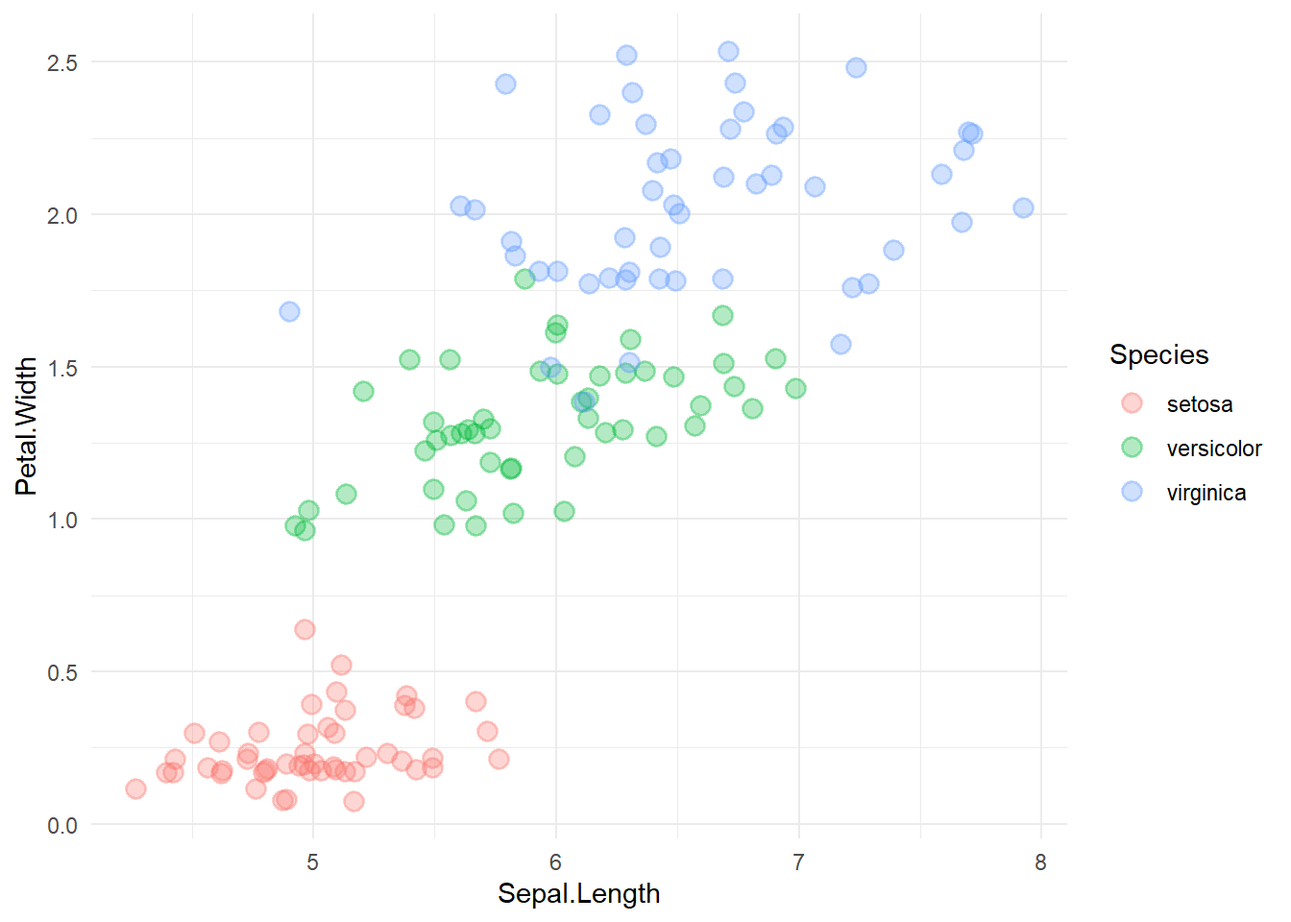
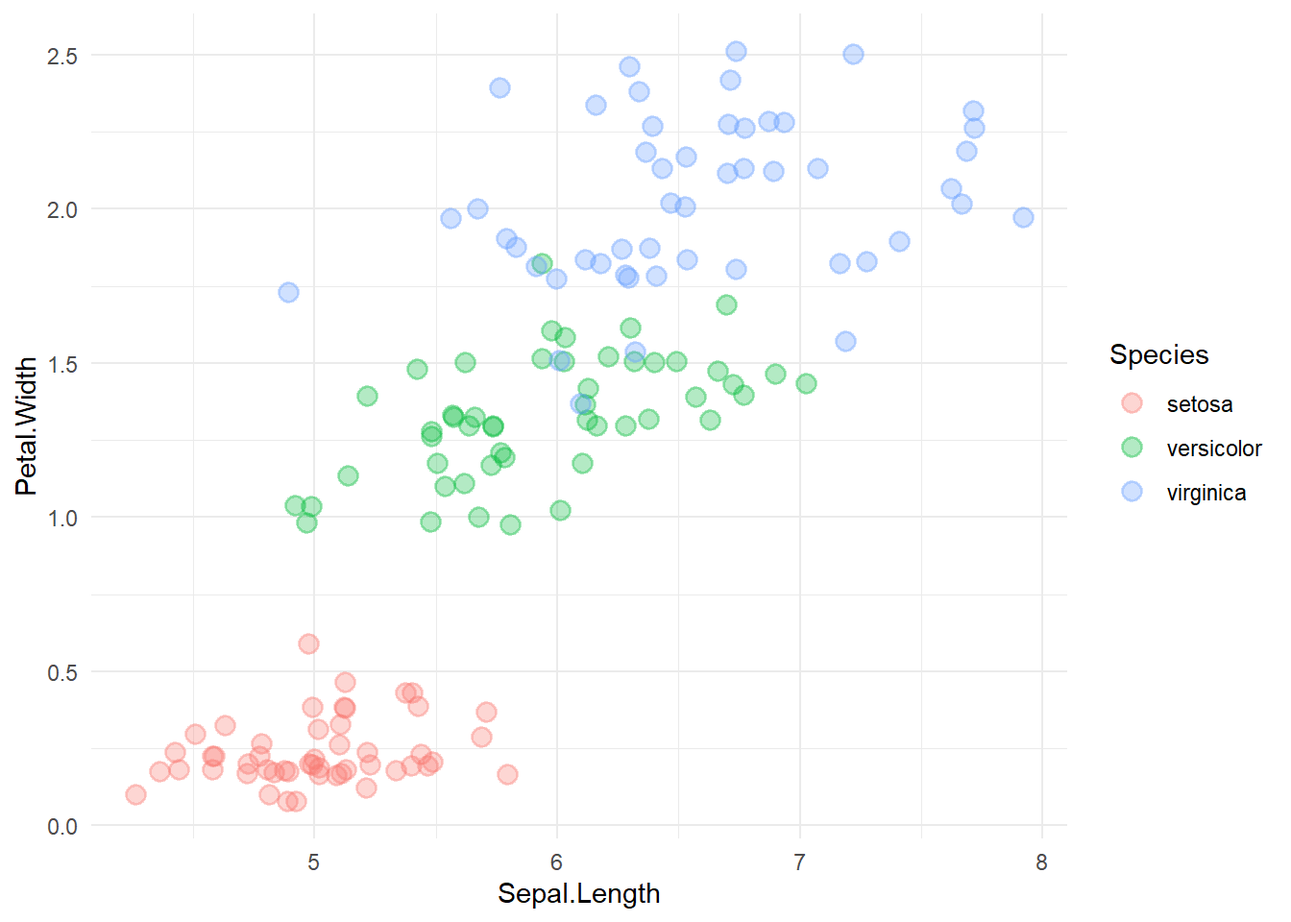
graf xy excel pinguinos R

diff --git a/docs/posts/excel-xy-pinguinos/index.html b/docs/posts/excel-xy-pinguinos/index.html
@@ -311,85 +311,78 @@ code span.wa { color: #60a0b0; font-weight: bold; font-style: italic; } /* Warni
 <h2 class="anchored" data-anchor-id="cómo-hacerlo-en-r">Cómo hacerlo en R</h2>
 <p>Adjunto el código R para hacer un gráfico equivalente al anterior en R. El posicionamiento de las imágenes es más engorroso; hay que detallar las coordenadas de cada imagen. El resultado definitivo sólo se consigue por ensayo y error. al no ser posible la edición visual de la que dispone Excel.</p>
 <div class="cell">
-<div class="sourceCode cell-code" id="cb1"><pre class="sourceCode r code-with-copy"><code class="sourceCode r"><span id="cb1-1"><a href="#cb1-1" aria-hidden="true" tabindex="-1"></a><span class="do">## packages</span></span>
+<div class="sourceCode cell-code" id="cb1"><pre class="sourceCode r code-with-copy"><code class="sourceCode r"><span id="cb1-1"><a href="#cb1-1" aria-hidden="true" tabindex="-1"></a><span class="do">## librerias</span></span>
 <span id="cb1-2"><a href="#cb1-2" aria-hidden="true" tabindex="-1"></a><span class="fu">library</span>(tidyverse)</span>
-<span id="cb1-3"><a href="#cb1-3" aria-hidden="true" tabindex="-1"></a><span class="fu">library</span>(colorspace)</span>
-<span id="cb1-4"><a href="#cb1-4" aria-hidden="true" tabindex="-1"></a><span class="fu">library</span>(ragg)</span>
-<span id="cb1-5"><a href="#cb1-5" aria-hidden="true" tabindex="-1"></a><span class="fu">library</span>(cowplot)</span>
-<span id="cb1-6"><a href="#cb1-6" aria-hidden="true" tabindex="-1"></a><span class="fu">library</span>(ggtext)</span>
-<span id="cb1-7"><a href="#cb1-7" aria-hidden="true" tabindex="-1"></a><span class="fu">library</span>(pdftools)</span>
-<span id="cb1-8"><a href="#cb1-8" aria-hidden="true" tabindex="-1"></a><span class="fu">library</span>(scales)</span>
-<span id="cb1-9"><a href="#cb1-9" aria-hidden="true" tabindex="-1"></a><span class="fu">library</span>(showtext)</span>
-<span id="cb1-10"><a href="#cb1-10" aria-hidden="true" tabindex="-1"></a></span>
-<span id="cb1-11"><a href="#cb1-11" aria-hidden="true" tabindex="-1"></a><span class="fu">theme_set</span>(<span class="fu">theme_minimal</span>(<span class="at">base_size =</span> <span class="dv">15</span>))</span>
-<span id="cb1-12"><a href="#cb1-12" aria-hidden="true" tabindex="-1"></a></span>
-<span id="cb1-13"><a href="#cb1-13" aria-hidden="true" tabindex="-1"></a><span class="do">## lee los datos</span></span>
-<span id="cb1-14"><a href="#cb1-14" aria-hidden="true" tabindex="-1"></a>df_penguins <span class="ot">&lt;-</span> readr<span class="sc">::</span><span class="fu">read_csv</span>(<span class="st">'penguins.csv'</span>) <span class="sc">|&gt;</span></span>
-<span id="cb1-15"><a href="#cb1-15" aria-hidden="true" tabindex="-1"></a>  <span class="fu">mutate</span>(<span class="at">species =</span> <span class="fu">if_else</span>(species <span class="sc">==</span> <span class="st">"Adelie"</span>, <span class="st">"Adélie"</span>, species))</span>
+<span id="cb1-3"><a href="#cb1-3" aria-hidden="true" tabindex="-1"></a></span>
+<span id="cb1-4"><a href="#cb1-4" aria-hidden="true" tabindex="-1"></a><span class="fu">theme_set</span>(<span class="fu">theme_minimal</span>(<span class="at">base_size =</span> <span class="dv">15</span>))</span>
+<span id="cb1-5"><a href="#cb1-5" aria-hidden="true" tabindex="-1"></a></span>
+<span id="cb1-6"><a href="#cb1-6" aria-hidden="true" tabindex="-1"></a><span class="do">## lee los datos</span></span>
+<span id="cb1-7"><a href="#cb1-7" aria-hidden="true" tabindex="-1"></a>df_penguins <span class="ot">&lt;-</span> readr<span class="sc">::</span><span class="fu">read_csv</span>(<span class="st">'penguins.csv'</span>) <span class="sc">|&gt;</span></span>
+<span id="cb1-8"><a href="#cb1-8" aria-hidden="true" tabindex="-1"></a>  <span class="fu">mutate</span>(<span class="at">species =</span> <span class="fu">if_else</span>(species <span class="sc">==</span> <span class="st">"Adelie"</span>, <span class="st">"Adélie"</span>, species))</span>
+<span id="cb1-9"><a href="#cb1-9" aria-hidden="true" tabindex="-1"></a></span>
+<span id="cb1-10"><a href="#cb1-10" aria-hidden="true" tabindex="-1"></a><span class="do">## lee las imágenes</span></span>
+<span id="cb1-11"><a href="#cb1-11" aria-hidden="true" tabindex="-1"></a>img <span class="ot">&lt;-</span> png<span class="sc">::</span><span class="fu">readPNG</span>(<span class="st">"culmen_depth-transparente.png"</span>)</span>
+<span id="cb1-12"><a href="#cb1-12" aria-hidden="true" tabindex="-1"></a>i1 <span class="ot">&lt;-</span> grid<span class="sc">::</span><span class="fu">rasterGrob</span>(img, <span class="at">interpolate =</span> T)</span>
+<span id="cb1-13"><a href="#cb1-13" aria-hidden="true" tabindex="-1"></a></span>
+<span id="cb1-14"><a href="#cb1-14" aria-hidden="true" tabindex="-1"></a>img <span class="ot">&lt;-</span> png<span class="sc">::</span><span class="fu">readPNG</span>(<span class="st">"lter_penguins.png"</span>)</span>
+<span id="cb1-15"><a href="#cb1-15" aria-hidden="true" tabindex="-1"></a>i2 <span class="ot">&lt;-</span> grid<span class="sc">::</span><span class="fu">rasterGrob</span>(img, <span class="at">interpolate =</span> T)</span>
 <span id="cb1-16"><a href="#cb1-16" aria-hidden="true" tabindex="-1"></a></span>
-<span id="cb1-17"><a href="#cb1-17" aria-hidden="true" tabindex="-1"></a><span class="do">## lee las imágenes</span></span>
-<span id="cb1-18"><a href="#cb1-18" aria-hidden="true" tabindex="-1"></a>img <span class="ot">&lt;-</span> png<span class="sc">::</span><span class="fu">readPNG</span>(<span class="st">"culmen_depth-transparente.png"</span>)</span>
-<span id="cb1-19"><a href="#cb1-19" aria-hidden="true" tabindex="-1"></a>i1 <span class="ot">&lt;-</span> grid<span class="sc">::</span><span class="fu">rasterGrob</span>(img, <span class="at">interpolate =</span> T)</span>
-<span id="cb1-20"><a href="#cb1-20" aria-hidden="true" tabindex="-1"></a></span>
-<span id="cb1-21"><a href="#cb1-21" aria-hidden="true" tabindex="-1"></a>img <span class="ot">&lt;-</span> png<span class="sc">::</span><span class="fu">readPNG</span>(<span class="st">"lter_penguins.png"</span>)</span>
-<span id="cb1-22"><a href="#cb1-22" aria-hidden="true" tabindex="-1"></a>i2 <span class="ot">&lt;-</span> grid<span class="sc">::</span><span class="fu">rasterGrob</span>(img, <span class="at">interpolate =</span> T)</span>
-<span id="cb1-23"><a href="#cb1-23" aria-hidden="true" tabindex="-1"></a></span>
-<span id="cb1-24"><a href="#cb1-24" aria-hidden="true" tabindex="-1"></a>img <span class="ot">&lt;-</span> png<span class="sc">::</span><span class="fu">readPNG</span>(<span class="st">"palmerpenguins.png"</span>)</span>
-<span id="cb1-25"><a href="#cb1-25" aria-hidden="true" tabindex="-1"></a>i3 <span class="ot">&lt;-</span> grid<span class="sc">::</span><span class="fu">rasterGrob</span>(img, <span class="at">interpolate =</span> T)</span>
-<span id="cb1-26"><a href="#cb1-26" aria-hidden="true" tabindex="-1"></a></span>
-<span id="cb1-27"><a href="#cb1-27" aria-hidden="true" tabindex="-1"></a><span class="do">## prepara el gráfico</span></span>
-<span id="cb1-28"><a href="#cb1-28" aria-hidden="true" tabindex="-1"></a>paleta_color <span class="ot">&lt;-</span> <span class="fu">c</span>(<span class="st">"darkorange"</span>, <span class="st">"blueviolet"</span>,  <span class="st">"aquamarine4"</span>)</span>
-<span id="cb1-29"><a href="#cb1-29" aria-hidden="true" tabindex="-1"></a></span>
-<span id="cb1-30"><a href="#cb1-30" aria-hidden="true" tabindex="-1"></a>scat <span class="ot">&lt;-</span></span>
-<span id="cb1-31"><a href="#cb1-31" aria-hidden="true" tabindex="-1"></a>  <span class="fu">ggplot</span>(df_penguins, <span class="fu">aes</span>(flipper_length_mm, bill_length_mm, <span class="at">colour =</span> species)) <span class="sc">+</span></span>
-<span id="cb1-32"><a href="#cb1-32" aria-hidden="true" tabindex="-1"></a>    <span class="fu">geom_point</span>(<span class="at">size =</span> <span class="dv">3</span>, <span class="at">alpha =</span> <span class="fl">0.3</span>, <span class="at">stroke =</span> <span class="dv">1</span>) <span class="sc">+</span></span>
-<span id="cb1-33"><a href="#cb1-33" aria-hidden="true" tabindex="-1"></a>    <span class="fu">theme_minimal</span>() <span class="sc">+</span></span>
-<span id="cb1-34"><a href="#cb1-34" aria-hidden="true" tabindex="-1"></a>    <span class="fu">labs</span> (<span class="at">title =</span> <span class="st">"Flipper and bill length"</span>,</span>
-<span id="cb1-35"><a href="#cb1-35" aria-hidden="true" tabindex="-1"></a>          <span class="at">subtitle=</span><span class="st">"Dimensions for Adélie, Chinstrap and Gentoo penguins at Palmer Station LTER"</span>,</span>
-<span id="cb1-36"><a href="#cb1-36" aria-hidden="true" tabindex="-1"></a>          <span class="at">caption =</span> <span class="st">"Dataset and images by Allison Horst https://allisonhorst.github.io/palmerpenguins/"</span>) <span class="sc">+</span></span>
-<span id="cb1-37"><a href="#cb1-37" aria-hidden="true" tabindex="-1"></a>    <span class="fu">theme</span>(</span>
-<span id="cb1-38"><a href="#cb1-38" aria-hidden="true" tabindex="-1"></a>      <span class="at">plot.title =</span> <span class="fu">element_text</span>(<span class="at">size=</span><span class="dv">22</span>),</span>
-<span id="cb1-39"><a href="#cb1-39" aria-hidden="true" tabindex="-1"></a>      <span class="at">legend.position =</span> <span class="st">"none"</span>,</span>
-<span id="cb1-40"><a href="#cb1-40" aria-hidden="true" tabindex="-1"></a>      <span class="at">plot.margin =</span> <span class="fu">margin</span>(<span class="dv">1</span>,<span class="dv">6</span>,<span class="fl">1.5</span>,<span class="fl">1.5</span>, <span class="st">"cm"</span>),</span>
-<span id="cb1-41"><a href="#cb1-41" aria-hidden="true" tabindex="-1"></a>      <span class="at">plot.caption =</span> <span class="fu">element_text</span>(<span class="at">hjust=</span><span class="dv">0</span>, <span class="at">face=</span><span class="st">"italic"</span>)</span>
-<span id="cb1-42"><a href="#cb1-42" aria-hidden="true" tabindex="-1"></a>    ) <span class="sc">+</span></span>
-<span id="cb1-43"><a href="#cb1-43" aria-hidden="true" tabindex="-1"></a>  <span class="fu">scale_fill_manual</span>(<span class="at">values=</span>paleta_color) <span class="sc">+</span></span>
-<span id="cb1-44"><a href="#cb1-44" aria-hidden="true" tabindex="-1"></a>  <span class="fu">scale_color_manual</span>(<span class="at">values=</span>paleta_color) <span class="sc">+</span></span>
-<span id="cb1-45"><a href="#cb1-45" aria-hidden="true" tabindex="-1"></a>  <span class="fu">annotate</span>(</span>
-<span id="cb1-46"><a href="#cb1-46" aria-hidden="true" tabindex="-1"></a>    <span class="st">"text"</span>,</span>
-<span id="cb1-47"><a href="#cb1-47" aria-hidden="true" tabindex="-1"></a>    <span class="at">x =</span> <span class="dv">185</span>, <span class="at">y =</span> <span class="dv">54</span>,</span>
-<span id="cb1-48"><a href="#cb1-48" aria-hidden="true" tabindex="-1"></a>    <span class="at">label =</span> <span class="st">"Chinstrap"</span>,</span>
-<span id="cb1-49"><a href="#cb1-49" aria-hidden="true" tabindex="-1"></a>    <span class="at">color =</span> <span class="st">"blueviolet"</span>,</span>
-<span id="cb1-50"><a href="#cb1-50" aria-hidden="true" tabindex="-1"></a>    <span class="at">alpha =</span> <span class="fl">0.8</span>,</span>
-<span id="cb1-51"><a href="#cb1-51" aria-hidden="true" tabindex="-1"></a>    <span class="at">size =</span> <span class="dv">4</span>,</span>
-<span id="cb1-52"><a href="#cb1-52" aria-hidden="true" tabindex="-1"></a>    <span class="at">lineheight =</span> .<span class="dv">9</span></span>
-<span id="cb1-53"><a href="#cb1-53" aria-hidden="true" tabindex="-1"></a>  ) <span class="sc">+</span></span>
-<span id="cb1-54"><a href="#cb1-54" aria-hidden="true" tabindex="-1"></a>  <span class="fu">annotate</span>(</span>
-<span id="cb1-55"><a href="#cb1-55" aria-hidden="true" tabindex="-1"></a>    <span class="st">"text"</span>,</span>
-<span id="cb1-56"><a href="#cb1-56" aria-hidden="true" tabindex="-1"></a>    <span class="at">x =</span> <span class="dv">205</span>, <span class="at">y =</span> <span class="dv">34</span>,</span>
-<span id="cb1-57"><a href="#cb1-57" aria-hidden="true" tabindex="-1"></a>    <span class="at">label =</span> <span class="st">"Adélie"</span>,</span>
-<span id="cb1-58"><a href="#cb1-58" aria-hidden="true" tabindex="-1"></a>    <span class="at">color =</span> <span class="st">"darkorange"</span>,</span>
-<span id="cb1-59"><a href="#cb1-59" aria-hidden="true" tabindex="-1"></a>    <span class="at">alpha =</span> <span class="fl">0.8</span>,</span>
-<span id="cb1-60"><a href="#cb1-60" aria-hidden="true" tabindex="-1"></a>    <span class="at">size =</span> <span class="dv">4</span>,</span>
-<span id="cb1-61"><a href="#cb1-61" aria-hidden="true" tabindex="-1"></a>    <span class="at">lineheight =</span> .<span class="dv">9</span></span>
-<span id="cb1-62"><a href="#cb1-62" aria-hidden="true" tabindex="-1"></a>  ) <span class="sc">+</span></span>
-<span id="cb1-63"><a href="#cb1-63" aria-hidden="true" tabindex="-1"></a>  <span class="fu">annotate</span>(</span>
-<span id="cb1-64"><a href="#cb1-64" aria-hidden="true" tabindex="-1"></a>    <span class="st">"text"</span>,</span>
-<span id="cb1-65"><a href="#cb1-65" aria-hidden="true" tabindex="-1"></a>    <span class="at">x =</span> <span class="dv">223</span>, <span class="at">y =</span> <span class="dv">42</span>,</span>
-<span id="cb1-66"><a href="#cb1-66" aria-hidden="true" tabindex="-1"></a>    <span class="at">label =</span> <span class="st">"Gentoo"</span>,</span>
-<span id="cb1-67"><a href="#cb1-67" aria-hidden="true" tabindex="-1"></a>    <span class="at">color =</span> <span class="st">"aquamarine4"</span>,</span>
-<span id="cb1-68"><a href="#cb1-68" aria-hidden="true" tabindex="-1"></a>    <span class="at">alpha =</span> <span class="fl">0.8</span>,</span>
-<span id="cb1-69"><a href="#cb1-69" aria-hidden="true" tabindex="-1"></a>    <span class="at">size =</span> <span class="dv">4</span>,</span>
-<span id="cb1-70"><a href="#cb1-70" aria-hidden="true" tabindex="-1"></a>    <span class="at">lineheight =</span> .<span class="dv">9</span></span>
-<span id="cb1-71"><a href="#cb1-71" aria-hidden="true" tabindex="-1"></a>  ) <span class="sc">+</span></span>
-<span id="cb1-72"><a href="#cb1-72" aria-hidden="true" tabindex="-1"></a>  <span class="fu">annotation_custom</span>(i1, <span class="at">ymin =</span> <span class="dv">45</span>, <span class="at">ymax =</span> <span class="dv">65</span>, <span class="at">xmin =</span> <span class="dv">235</span>, <span class="at">xmax =</span><span class="dv">275</span>) <span class="sc">+</span></span>
-<span id="cb1-73"><a href="#cb1-73" aria-hidden="true" tabindex="-1"></a>  <span class="fu">annotation_custom</span>(i2, <span class="at">ymin =</span> <span class="dv">20</span>, <span class="at">ymax =</span> <span class="dv">55</span>, <span class="at">xmin =</span> <span class="dv">225</span>, <span class="at">xmax =</span><span class="dv">275</span>) <span class="sc">+</span></span>
-<span id="cb1-74"><a href="#cb1-74" aria-hidden="true" tabindex="-1"></a>  <span class="fu">annotation_custom</span>(i3, <span class="at">ymin =</span> <span class="fl">63.5</span>, <span class="at">ymax =</span> <span class="dv">70</span>, <span class="at">xmin =</span> <span class="dv">255</span>, <span class="at">xmax =</span><span class="dv">275</span>) <span class="sc">+</span></span>
-<span id="cb1-75"><a href="#cb1-75" aria-hidden="true" tabindex="-1"></a>  <span class="fu">coord_cartesian</span>(<span class="at">clip =</span> <span class="st">"off"</span>)</span>
-<span id="cb1-76"><a href="#cb1-76" aria-hidden="true" tabindex="-1"></a></span>
-<span id="cb1-77"><a href="#cb1-77" aria-hidden="true" tabindex="-1"></a><span class="fu">plot</span>(scat)</span></code><button title="Copy to Clipboard" class="code-copy-button"><i class="bi"></i></button></pre></div>
+<span id="cb1-17"><a href="#cb1-17" aria-hidden="true" tabindex="-1"></a>img <span class="ot">&lt;-</span> png<span class="sc">::</span><span class="fu">readPNG</span>(<span class="st">"palmerpenguins.png"</span>)</span>
+<span id="cb1-18"><a href="#cb1-18" aria-hidden="true" tabindex="-1"></a>i3 <span class="ot">&lt;-</span> grid<span class="sc">::</span><span class="fu">rasterGrob</span>(img, <span class="at">interpolate =</span> T)</span>
+<span id="cb1-19"><a href="#cb1-19" aria-hidden="true" tabindex="-1"></a></span>
+<span id="cb1-20"><a href="#cb1-20" aria-hidden="true" tabindex="-1"></a><span class="do">## prepara el gráfico</span></span>
+<span id="cb1-21"><a href="#cb1-21" aria-hidden="true" tabindex="-1"></a>paleta_color <span class="ot">&lt;-</span> <span class="fu">c</span>(<span class="st">"darkorange"</span>, <span class="st">"blueviolet"</span>,  <span class="st">"aquamarine4"</span>)</span>
+<span id="cb1-22"><a href="#cb1-22" aria-hidden="true" tabindex="-1"></a></span>
+<span id="cb1-23"><a href="#cb1-23" aria-hidden="true" tabindex="-1"></a>scat <span class="ot">&lt;-</span></span>
+<span id="cb1-24"><a href="#cb1-24" aria-hidden="true" tabindex="-1"></a>  <span class="fu">ggplot</span>(df_penguins, <span class="fu">aes</span>(flipper_length_mm, bill_length_mm, <span class="at">colour =</span> species)) <span class="sc">+</span></span>
+<span id="cb1-25"><a href="#cb1-25" aria-hidden="true" tabindex="-1"></a>    <span class="fu">geom_point</span>(<span class="at">size =</span> <span class="dv">3</span>, <span class="at">alpha =</span> <span class="fl">0.3</span>, <span class="at">stroke =</span> <span class="dv">1</span>) <span class="sc">+</span></span>
+<span id="cb1-26"><a href="#cb1-26" aria-hidden="true" tabindex="-1"></a>    <span class="fu">theme_minimal</span>() <span class="sc">+</span></span>
+<span id="cb1-27"><a href="#cb1-27" aria-hidden="true" tabindex="-1"></a>    <span class="fu">labs</span> (<span class="at">title =</span> <span class="st">"Flipper and bill length"</span>,</span>
+<span id="cb1-28"><a href="#cb1-28" aria-hidden="true" tabindex="-1"></a>          <span class="at">subtitle=</span><span class="st">"Dimensions for Adélie, Chinstrap and Gentoo penguins at Palmer Station LTER"</span>,</span>
+<span id="cb1-29"><a href="#cb1-29" aria-hidden="true" tabindex="-1"></a>          <span class="at">caption =</span> <span class="st">"Dataset and images by Allison Horst https://allisonhorst.github.io/palmerpenguins/"</span>) <span class="sc">+</span></span>
+<span id="cb1-30"><a href="#cb1-30" aria-hidden="true" tabindex="-1"></a>    <span class="fu">theme</span>(</span>
+<span id="cb1-31"><a href="#cb1-31" aria-hidden="true" tabindex="-1"></a>      <span class="at">plot.title =</span> <span class="fu">element_text</span>(<span class="at">size=</span><span class="dv">22</span>),</span>
+<span id="cb1-32"><a href="#cb1-32" aria-hidden="true" tabindex="-1"></a>      <span class="at">legend.position =</span> <span class="st">"none"</span>,</span>
+<span id="cb1-33"><a href="#cb1-33" aria-hidden="true" tabindex="-1"></a>      <span class="at">plot.margin =</span> <span class="fu">margin</span>(<span class="dv">1</span>,<span class="fl">6.5</span>,<span class="fl">1.5</span>,<span class="fl">1.5</span>, <span class="st">"cm"</span>),</span>
+<span id="cb1-34"><a href="#cb1-34" aria-hidden="true" tabindex="-1"></a>      <span class="at">plot.caption =</span> <span class="fu">element_text</span>(<span class="at">hjust=</span><span class="dv">0</span>, <span class="at">face=</span><span class="st">"italic"</span>)</span>
+<span id="cb1-35"><a href="#cb1-35" aria-hidden="true" tabindex="-1"></a>    ) <span class="sc">+</span></span>
+<span id="cb1-36"><a href="#cb1-36" aria-hidden="true" tabindex="-1"></a>  <span class="fu">scale_fill_manual</span>(<span class="at">values=</span>paleta_color) <span class="sc">+</span></span>
+<span id="cb1-37"><a href="#cb1-37" aria-hidden="true" tabindex="-1"></a>  <span class="fu">scale_color_manual</span>(<span class="at">values=</span>paleta_color) <span class="sc">+</span></span>
+<span id="cb1-38"><a href="#cb1-38" aria-hidden="true" tabindex="-1"></a>  <span class="fu">annotate</span>(</span>
+<span id="cb1-39"><a href="#cb1-39" aria-hidden="true" tabindex="-1"></a>    <span class="st">"text"</span>,</span>
+<span id="cb1-40"><a href="#cb1-40" aria-hidden="true" tabindex="-1"></a>    <span class="at">x =</span> <span class="dv">185</span>, <span class="at">y =</span> <span class="dv">54</span>,</span>
+<span id="cb1-41"><a href="#cb1-41" aria-hidden="true" tabindex="-1"></a>    <span class="at">label =</span> <span class="st">"Chinstrap"</span>,</span>
+<span id="cb1-42"><a href="#cb1-42" aria-hidden="true" tabindex="-1"></a>    <span class="at">color =</span> <span class="st">"blueviolet"</span>,</span>
+<span id="cb1-43"><a href="#cb1-43" aria-hidden="true" tabindex="-1"></a>    <span class="at">alpha =</span> <span class="fl">0.8</span>,</span>
+<span id="cb1-44"><a href="#cb1-44" aria-hidden="true" tabindex="-1"></a>    <span class="at">size =</span> <span class="dv">4</span>,</span>
+<span id="cb1-45"><a href="#cb1-45" aria-hidden="true" tabindex="-1"></a>    <span class="at">lineheight =</span> .<span class="dv">9</span></span>
+<span id="cb1-46"><a href="#cb1-46" aria-hidden="true" tabindex="-1"></a>  ) <span class="sc">+</span></span>
+<span id="cb1-47"><a href="#cb1-47" aria-hidden="true" tabindex="-1"></a>  <span class="fu">annotate</span>(</span>
+<span id="cb1-48"><a href="#cb1-48" aria-hidden="true" tabindex="-1"></a>    <span class="st">"text"</span>,</span>
+<span id="cb1-49"><a href="#cb1-49" aria-hidden="true" tabindex="-1"></a>    <span class="at">x =</span> <span class="dv">205</span>, <span class="at">y =</span> <span class="dv">34</span>,</span>
+<span id="cb1-50"><a href="#cb1-50" aria-hidden="true" tabindex="-1"></a>    <span class="at">label =</span> <span class="st">"Adélie"</span>,</span>
+<span id="cb1-51"><a href="#cb1-51" aria-hidden="true" tabindex="-1"></a>    <span class="at">color =</span> <span class="st">"darkorange"</span>,</span>
+<span id="cb1-52"><a href="#cb1-52" aria-hidden="true" tabindex="-1"></a>    <span class="at">alpha =</span> <span class="fl">0.8</span>,</span>
+<span id="cb1-53"><a href="#cb1-53" aria-hidden="true" tabindex="-1"></a>    <span class="at">size =</span> <span class="dv">4</span>,</span>
+<span id="cb1-54"><a href="#cb1-54" aria-hidden="true" tabindex="-1"></a>    <span class="at">lineheight =</span> .<span class="dv">9</span></span>
+<span id="cb1-55"><a href="#cb1-55" aria-hidden="true" tabindex="-1"></a>  ) <span class="sc">+</span></span>
+<span id="cb1-56"><a href="#cb1-56" aria-hidden="true" tabindex="-1"></a>  <span class="fu">annotate</span>(</span>
+<span id="cb1-57"><a href="#cb1-57" aria-hidden="true" tabindex="-1"></a>    <span class="st">"text"</span>,</span>
+<span id="cb1-58"><a href="#cb1-58" aria-hidden="true" tabindex="-1"></a>    <span class="at">x =</span> <span class="dv">223</span>, <span class="at">y =</span> <span class="dv">42</span>,</span>
+<span id="cb1-59"><a href="#cb1-59" aria-hidden="true" tabindex="-1"></a>    <span class="at">label =</span> <span class="st">"Gentoo"</span>,</span>
+<span id="cb1-60"><a href="#cb1-60" aria-hidden="true" tabindex="-1"></a>    <span class="at">color =</span> <span class="st">"aquamarine4"</span>,</span>
+<span id="cb1-61"><a href="#cb1-61" aria-hidden="true" tabindex="-1"></a>    <span class="at">alpha =</span> <span class="fl">0.8</span>,</span>
+<span id="cb1-62"><a href="#cb1-62" aria-hidden="true" tabindex="-1"></a>    <span class="at">size =</span> <span class="dv">4</span>,</span>
+<span id="cb1-63"><a href="#cb1-63" aria-hidden="true" tabindex="-1"></a>    <span class="at">lineheight =</span> .<span class="dv">9</span></span>
+<span id="cb1-64"><a href="#cb1-64" aria-hidden="true" tabindex="-1"></a>  ) <span class="sc">+</span></span>
+<span id="cb1-65"><a href="#cb1-65" aria-hidden="true" tabindex="-1"></a>  <span class="fu">annotation_custom</span>(i1, <span class="at">ymin =</span> <span class="dv">45</span>, <span class="at">ymax =</span> <span class="dv">65</span>, <span class="at">xmin =</span> <span class="dv">235</span>, <span class="at">xmax =</span><span class="dv">280</span>) <span class="sc">+</span></span>
+<span id="cb1-66"><a href="#cb1-66" aria-hidden="true" tabindex="-1"></a>  <span class="fu">annotation_custom</span>(i2, <span class="at">ymin =</span> <span class="dv">20</span>, <span class="at">ymax =</span> <span class="dv">55</span>, <span class="at">xmin =</span> <span class="dv">230</span>, <span class="at">xmax =</span><span class="dv">280</span>) <span class="sc">+</span></span>
+<span id="cb1-67"><a href="#cb1-67" aria-hidden="true" tabindex="-1"></a>  <span class="fu">annotation_custom</span>(i3, <span class="at">ymin =</span> <span class="fl">63.5</span>, <span class="at">ymax =</span> <span class="dv">70</span>, <span class="at">xmin =</span> <span class="dv">260</span>, <span class="at">xmax =</span><span class="dv">280</span>) <span class="sc">+</span></span>
+<span id="cb1-68"><a href="#cb1-68" aria-hidden="true" tabindex="-1"></a>  <span class="fu">coord_cartesian</span>(<span class="at">clip =</span> <span class="st">"off"</span>)</span>
+<span id="cb1-69"><a href="#cb1-69" aria-hidden="true" tabindex="-1"></a></span>
+<span id="cb1-70"><a href="#cb1-70" aria-hidden="true" tabindex="-1"></a><span class="fu">plot</span>(scat)</span></code><button title="Copy to Clipboard" class="code-copy-button"><i class="bi"></i></button></pre></div>
 <div class="cell-output-display">
-<p><img src="index_files/figure-html/unnamed-chunk-1-1.png" class="img-fluid" width="672"></p>
+<p><img src="index_files/figure-html/rpenguins-1.png" class="img-fluid" width="672"></p>
 </div>
 </div>
 

diff --git a/docs/index.html b/docs/index.html
@@ -163,7 +163,7 @@ ul.task-list li input[type="checkbox"] {
 
 <div class="quarto-listing quarto-listing-container-default" id="listing-listing">
 <div class="list quarto-listing-default">
-<div class="quarto-post image-right" data-index="0" data-listing-date-sort="1675292400000" data-listing-file-modified-sort="1675437971034" data-listing-reading-time-sort="6.82">
+<div class="quarto-post image-right" data-index="0" data-listing-date-sort="1675292400000" data-listing-file-modified-sort="1675438655454" data-listing-reading-time-sort="6.825">
 <div class="thumbnail">
 <p><a href="./posts/excel-xy-pinguinos/index.html"> <img src="./posts/excel-xy-pinguinos/pinguinos2.png" class="thumnail-image"> </a></p>
 </div>
